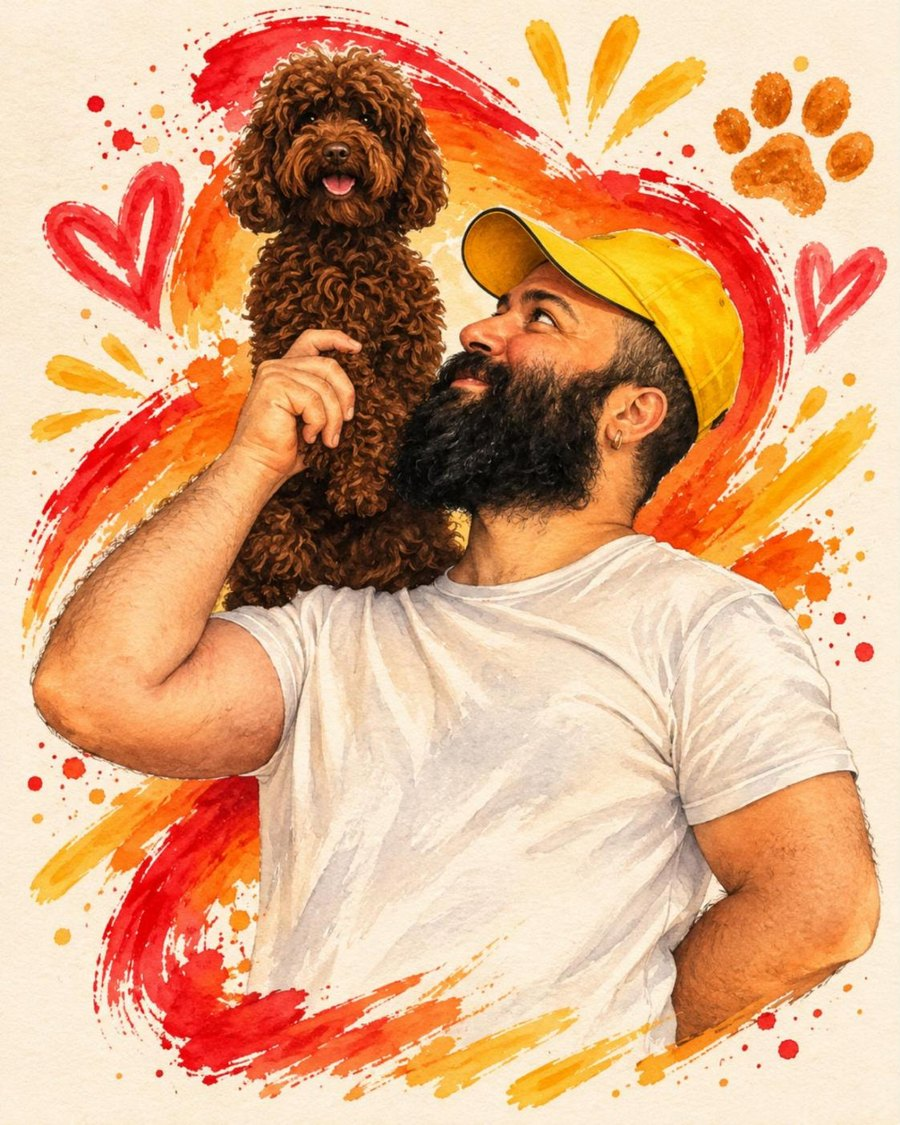
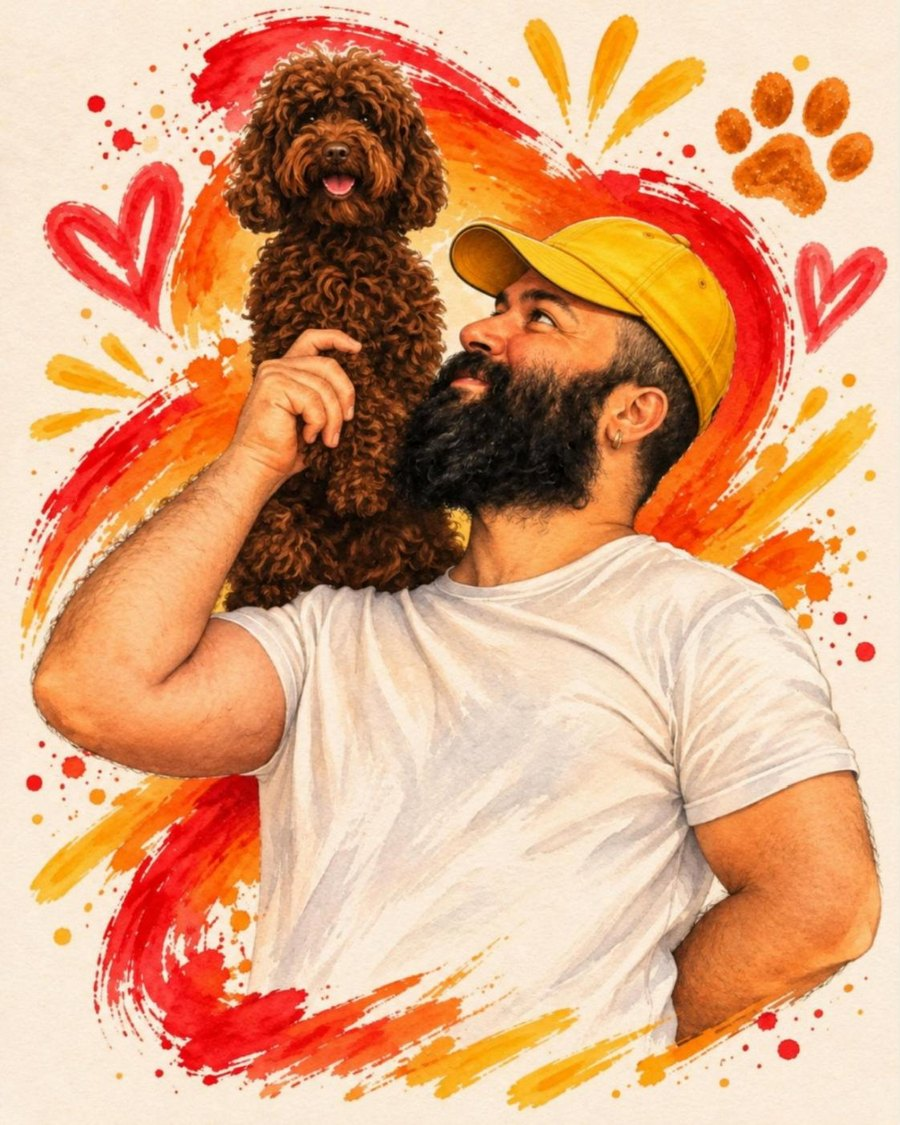
Ana sayfa: şapkası düzeltilen portre ve konaklama kartına yatak çizimi
Claude-Session: https://claude.ai/code/session_01EJoUSRqaGEYD4awf9hkBRE

diff --git a/index.html b/index.html
@@ -69,7 +69,7 @@
     <div class="wrap">
       <div class="stay-card">
         <div class="stay-photo">
-          <picture><source media="(min-width:860px)" srcset="img/konaklama-1.jpg"><img src="img/konaklama-kart.jpg" alt="Mehmet Cihat Keleş, misafir köpeklerle birlikte yatakta uyurken" loading="lazy" style="object-position:50% 45%"></picture>
+          <picture><source media="(min-width:860px)" srcset="img/konaklama-cizim.jpg"><img src="img/konaklama-cizim-kart.jpg" alt="Sarı şapkalı Mehmet Cihat Keleş, yatakta bir golden retrievera sarılmış uyurken; arkada iki köpek daha. Suluboya çizim" loading="lazy" style="object-position:50% 50%"></picture>
         </div>
         <div class="stay-body">
           <p class="label">Konaklama</p>
